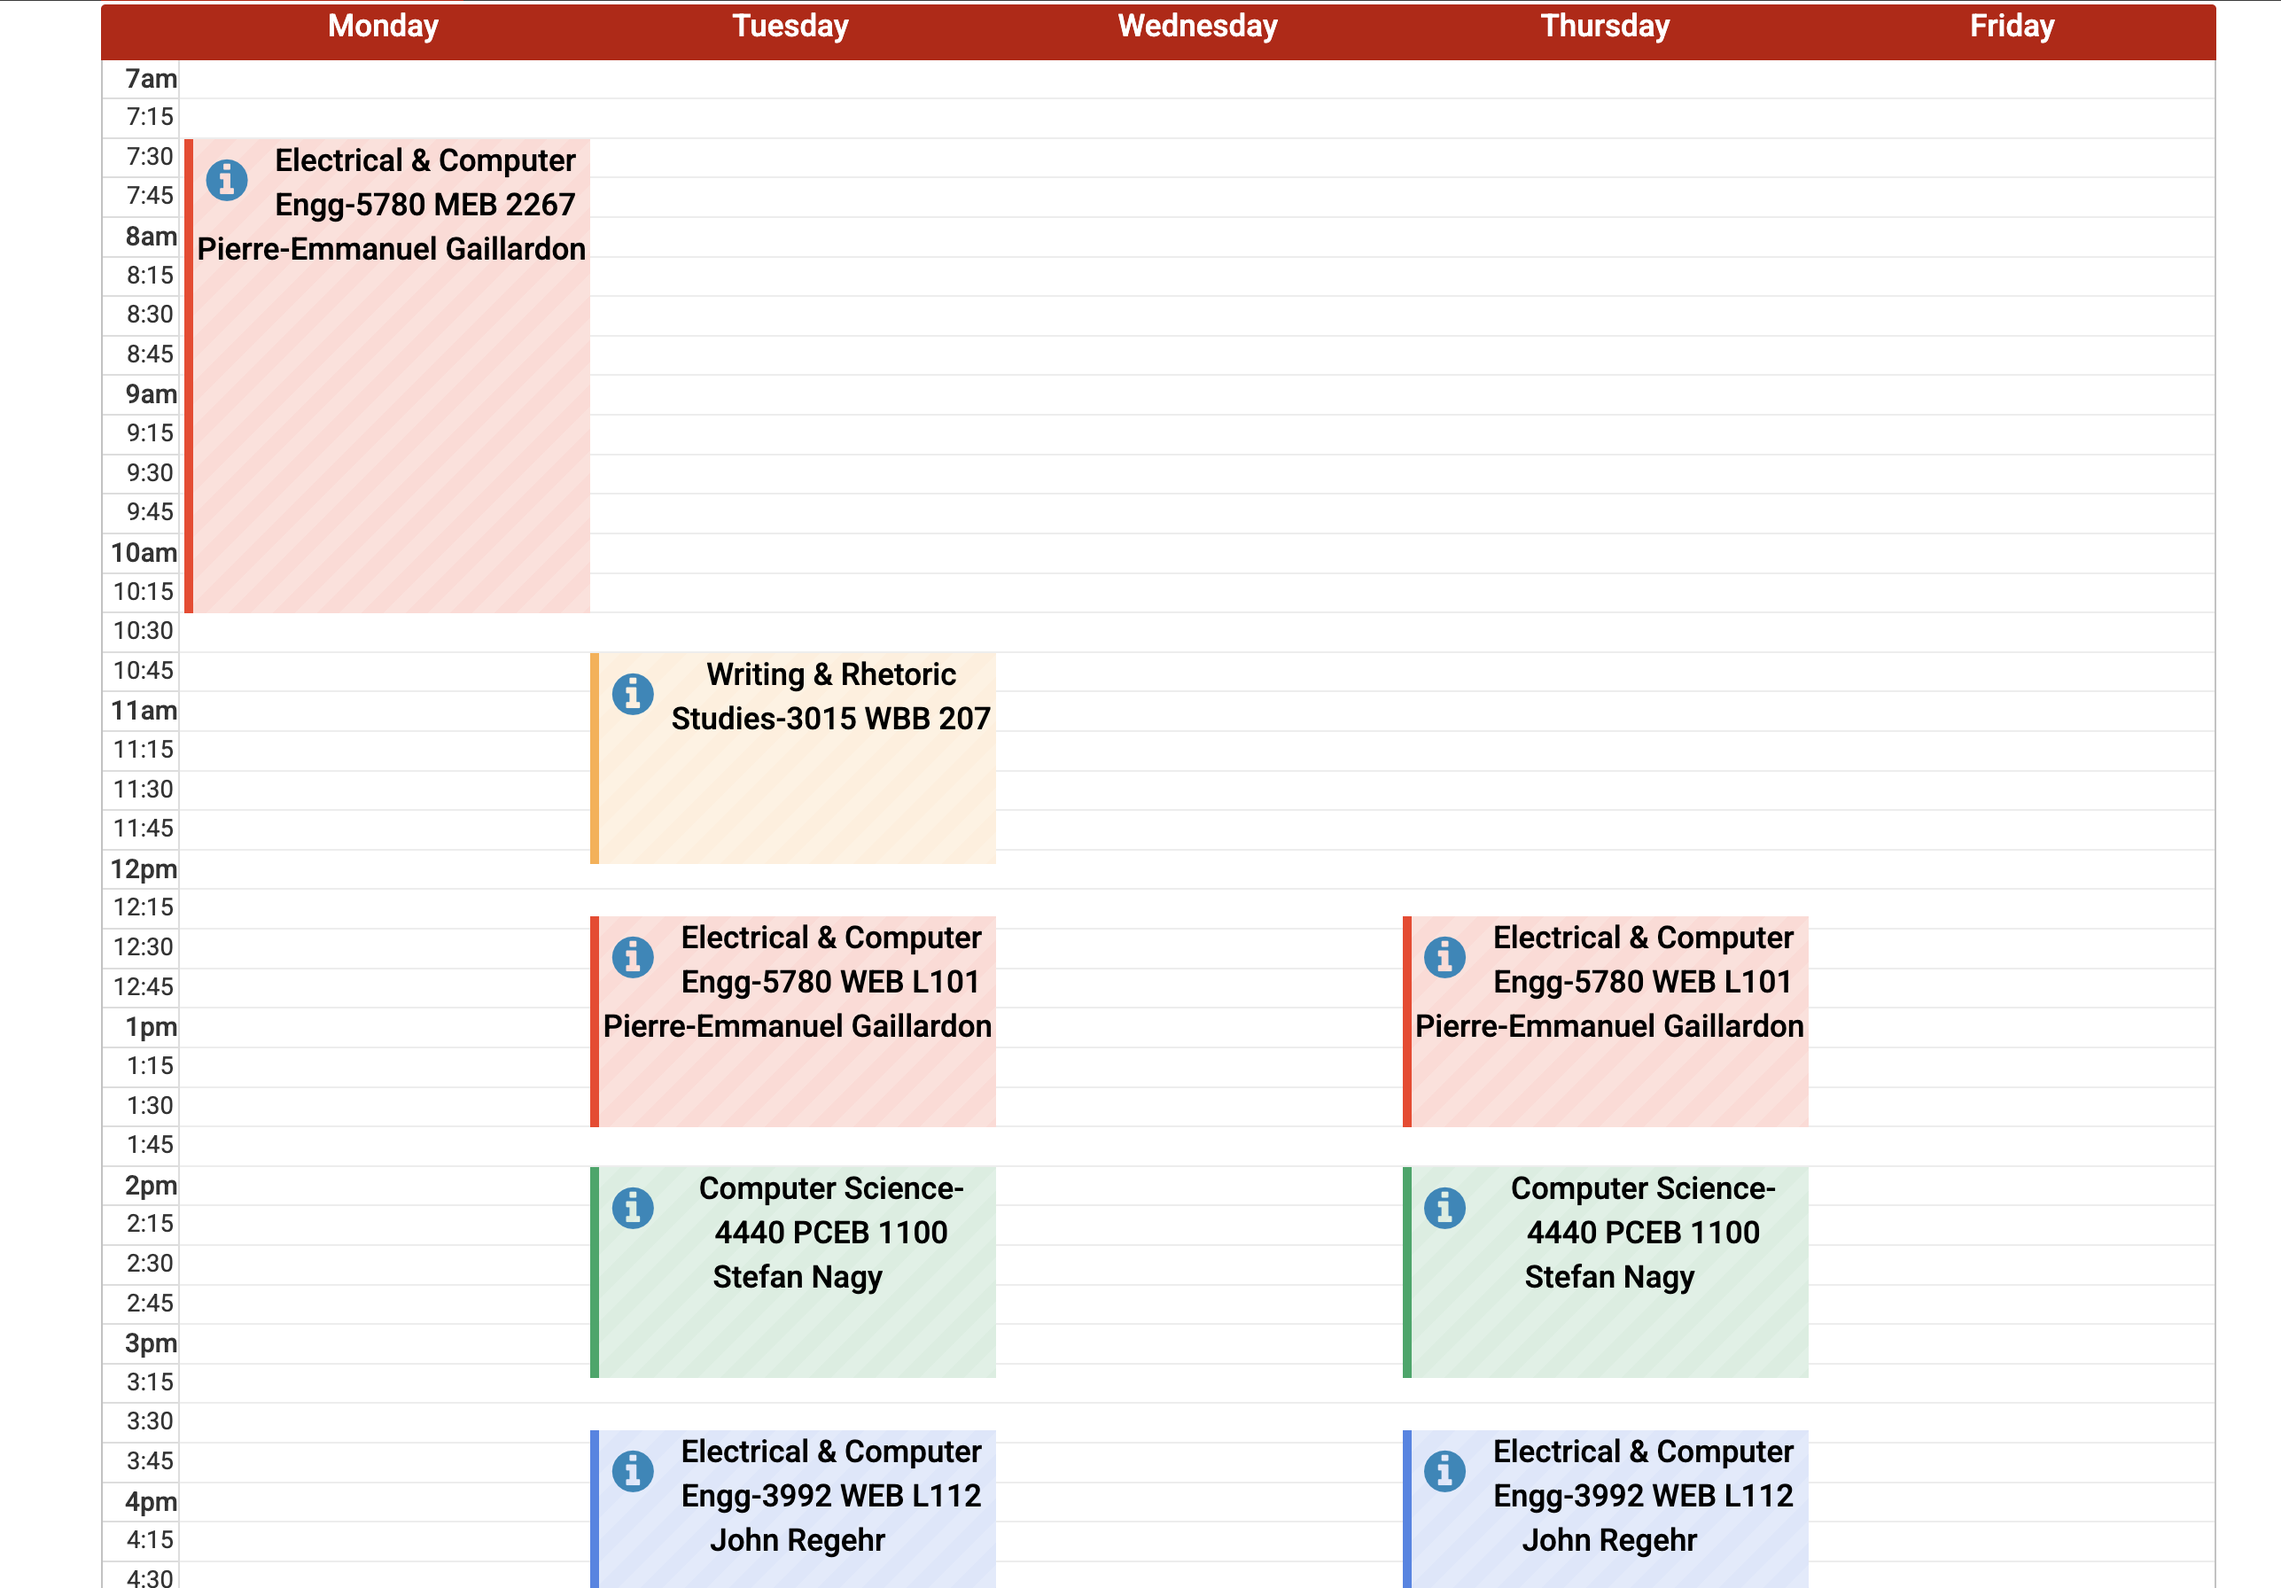
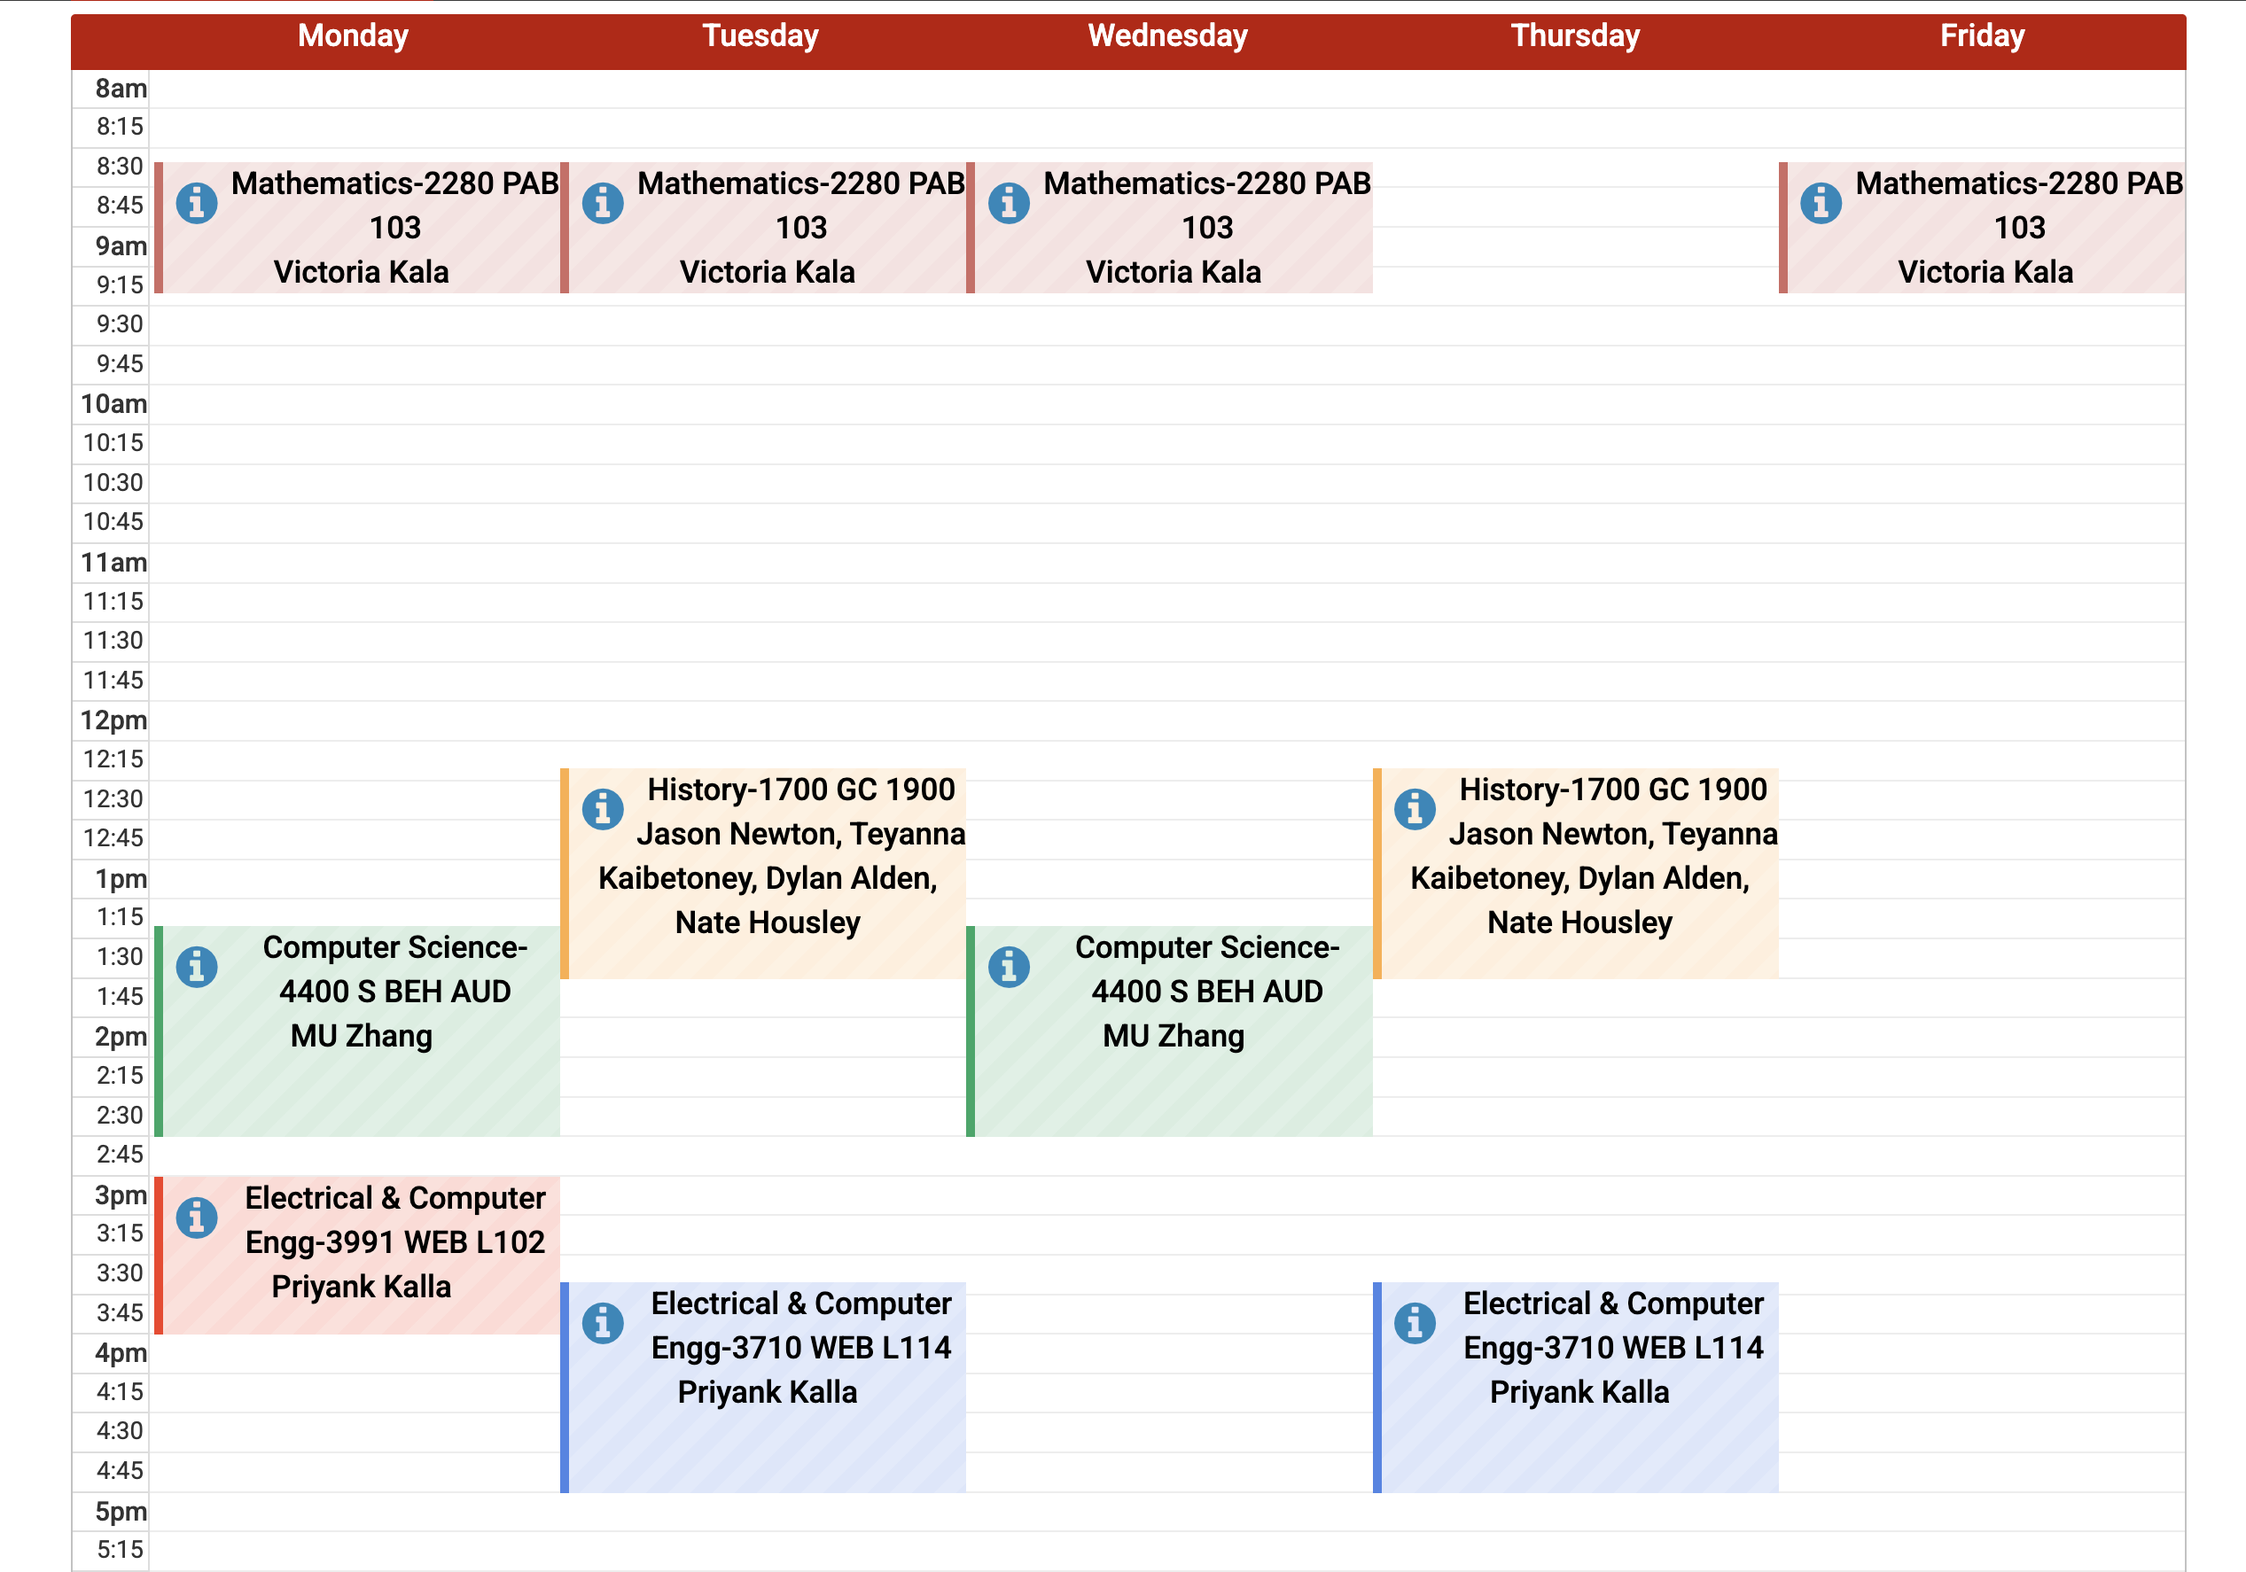
Configured the JSON output schema (ImageExtractionResponse DTO) when getting a response from Ollama.

diff --git a/src/main/java/com/netsentry/ImageProcessorEndpoints.java b/src/main/java/com/netsentry/ImageProcessorEndpoints.java
@@ -1,11 +1,14 @@
 package com.netsentry;
 
+import com.netsentry.DTOs.ImageExtractionJsonResponse;
 import com.netsentry.DTOs.ImageUploadResponse;
 import com.netsentry.models.ImageUploadApiEndpoints;
 import org.slf4j.Logger;
 import org.slf4j.LoggerFactory;
 import org.springframework.ai.chat.model.ChatModel;
 import org.springframework.ai.chat.prompt.Prompt;
+import org.springframework.ai.converter.BeanOutputConverter;
+import org.springframework.ai.ollama.api.OllamaChatOptions;
 import org.springframework.beans.factory.annotation.Value;
 import org.springframework.http.HttpStatus;
 import org.springframework.web.bind.annotation.RestController;
@@ -16,7 +19,6 @@ import org.springframework.ai.content.Media;
 import org.springframework.ai.chat.messages.UserMessage;
 import org.springframework.core.io.ByteArrayResource;
 import org.springframework.util.MimeTypeUtils;
-
 import java.io.IOException;
 import java.time.Duration;
 import java.util.List;
@@ -63,12 +65,12 @@ public class ImageProcessorEndpoints implements ImageUploadApiEndpoints {
         try {
             String contentType = checkContentType(file);
             // Extract JSON response from the image
-            String extractedResponse = extractImage(file, contentType);
+            ImageExtractionJsonResponse extractedResponse = extractImage(file, contentType);
 
             // Save the image locally on the computer
-            String saved = storageService.save(file);
-            logger.info("Saved {} as {}", file.getOriginalFilename(), saved);
-            return new ImageUploadResponse(saved);
+            String savedFileName = this.storageService.save(file);
+            logger.info("Saved {} as {}", file.getOriginalFilename(), savedFileName);
+            return new ImageUploadResponse(savedFileName, extractedResponse);
         } catch (IOException e) {
             logger.error("Failed to store upload locally", e);
             throw new ResponseStatusException(HttpStatus.INTERNAL_SERVER_ERROR, "Could not save file");
@@ -77,7 +79,7 @@ public class ImageProcessorEndpoints implements ImageUploadApiEndpoints {
 
 
 
-    private String extractImage(
+    private ImageExtractionJsonResponse extractImage(
             MultipartFile file,
             String contentType
     ) throws IOException {
@@ -92,12 +94,17 @@ public class ImageProcessorEndpoints implements ImageUploadApiEndpoints {
                 ))
                 .build();
 
+        var converter = new BeanOutputConverter<>(ImageExtractionJsonResponse.class);
+        // Keep application.properties configuration
+        var defaults = (OllamaChatOptions) chatModel.getOptions();
+        // default.mutate() preserves the existing configuration and added only the JSON outputSchema
+        var options = defaults.mutate().outputSchema(converter.getJsonSchema()).build();
         long start = System.currentTimeMillis();
 
         logger.info("Sending image to Ollama...");
 
 
-        List<String> chunks = chatModel.stream(new Prompt(userMessage))
+        List<String> chunks = chatModel.stream(new Prompt(userMessage, options))
                 .map(response -> {
                     if (response.getResult() == null ||
                             response.getResult() == null) {
@@ -117,20 +124,29 @@ public class ImageProcessorEndpoints implements ImageUploadApiEndpoints {
                 .collectList()
                 .block(Duration.ofMinutes(5));
 
-        String content = chunks == null ? "" : String.join("", chunks);
+        String jsonCalendarInfo = chunks == null ? "" : String.join("", chunks);
 
-        if (content.isBlank()) {
+        if (jsonCalendarInfo.isBlank()) {
             throw new ResponseStatusException(
                     HttpStatus.BAD_GATEWAY,
                     "Ollama returned an empty response"
             );
         }
+        try {
+            // This will parse the string. If it's invalid JSON, it throws an exception.
+            ImageExtractionJsonResponse result = converter.convert(jsonCalendarInfo);
+            long elapsed = System.currentTimeMillis() - start;
 
-        long elapsed = System.currentTimeMillis() - start;
+            logger.info("Ollama finished in {} ms", elapsed);
+            logger.info("Image extraction completed");
 
-        logger.info("Ollama finished in {} ms", elapsed);
-        logger.info("Final Ollama response {}", content);
-        return content;
+            return result;
+        } catch (RuntimeException e) {
+            logger.error("Failed to parse Ollama JSON response", e);
+            throw new ResponseStatusException(
+                    HttpStatus.BAD_GATEWAY,
+                    "Ollama returned an invalid JSON structure: " + e.getMessage()
+            );
+        }
     }
-
 }

diff --git a/src/main/java/com/netsentry/DTOs/ImageExtractionJsonResponse.java b/src/main/java/com/netsentry/DTOs/ImageExtractionJsonResponse.java
@@ -1,0 +1,20 @@
+package com.netsentry.DTOs;
+
+import com.fasterxml.jackson.annotation.JsonProperty;
+import java.util.List;
+
+public record ImageExtractionJsonResponse(
+        @JsonProperty(required = true)
+        List<CalendarEvent> events
+) {
+    public record CalendarEvent(
+            @JsonProperty(required = true)
+            String title,
+
+            @JsonProperty(required = true)
+            String startTime,
+
+            @JsonProperty(required = true)
+            String endTime
+    ) {}
+}

diff --git a/src/main/java/com/netsentry/DTOs/ImageUploadResponse.java b/src/main/java/com/netsentry/DTOs/ImageUploadResponse.java
@@ -1,4 +1,4 @@
 package com.netsentry.DTOs;
 
-public record ImageUploadResponse(String filename) {
+public record ImageUploadResponse(String filename, ImageExtractionJsonResponse extracted_response) {
 }
